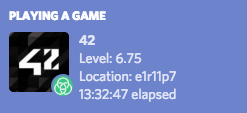
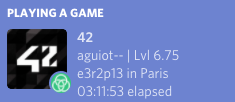
Change RP layout (now displaying login, campus and download link)

Changed region(s): [[0.0298, 0.2647, 0.7745, 0.9706], [0.0298, 0.0588, 0.4468, 0.2059], [0.1787, 0.2647, 0.2681, 0.2941]]

diff --git a/cmd/RP42/main.go b/cmd/RP42/main.go
@@ -54,6 +54,8 @@ func sendActivity(details string, state string, largeText string, smallImage str
 
 func setPresence(user *api.User, location *api.Location, coalition *api.Coalition) {
 	lvl := fmt.Sprintf("%.2f", user.CursusUsers[0].Level)
+	login := user.Login
+	campus := user.Campus[0].Name
 
 	var (
 		start   int64
@@ -79,9 +81,9 @@ func setPresence(user *api.User, location *api.Location, coalition *api.Coalitio
 	}
 
 	sendActivity(
-		fmt.Sprint("Level: ", lvl),
-		fmt.Sprint("Location: ", loc),
-		user.Login,
+		fmt.Sprintf("%s | Lvl %s", login, lvl),
+		fmt.Sprintf("%s in %s", loc, campus),
+		"Download: git.io/Je2xQ",
 		coaSlug,
 		coaName,
 		start,

diff --git a/pkg/api/user.go b/pkg/api/user.go
@@ -77,9 +77,13 @@ type User struct {
 			CreatedAt   time.Time `json:"created_at"`
 			UserID      int       `json:"user_id"`
 		} `json:"expertises_users"`
+	*/
 		Campus []struct {
+	/*
 			ID       int    `json:"id"`
+	*/
 			Name     string `json:"name"`
+	/*
 			TimeZone string `json:"time_zone"`
 			Language struct {
 				ID         int       `json:"id"`
@@ -90,7 +94,9 @@ type User struct {
 			} `json:"language"`
 			UsersCount  int `json:"users_count"`
 			VogsphereID int `json:"vogsphere_id"`
+	*/
 		} `json:"campus"`
+	/*
 		CampusUsers []struct {
 			ID        int  `json:"id"`
 			UserID    int  `json:"user_id"`
